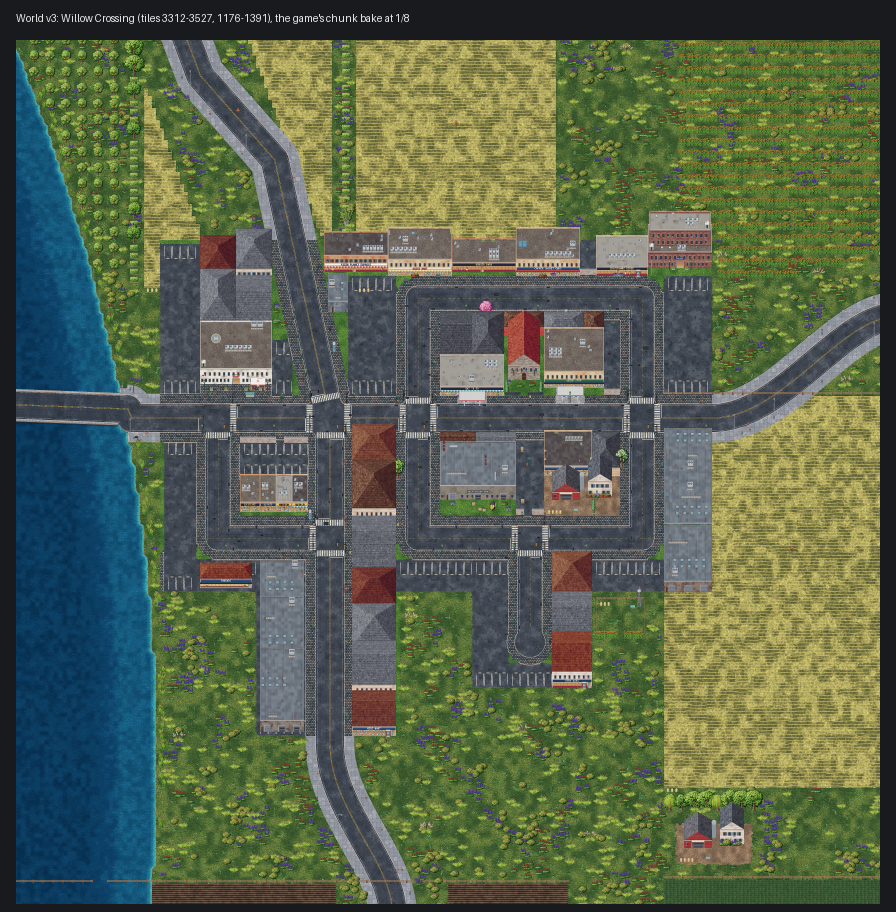
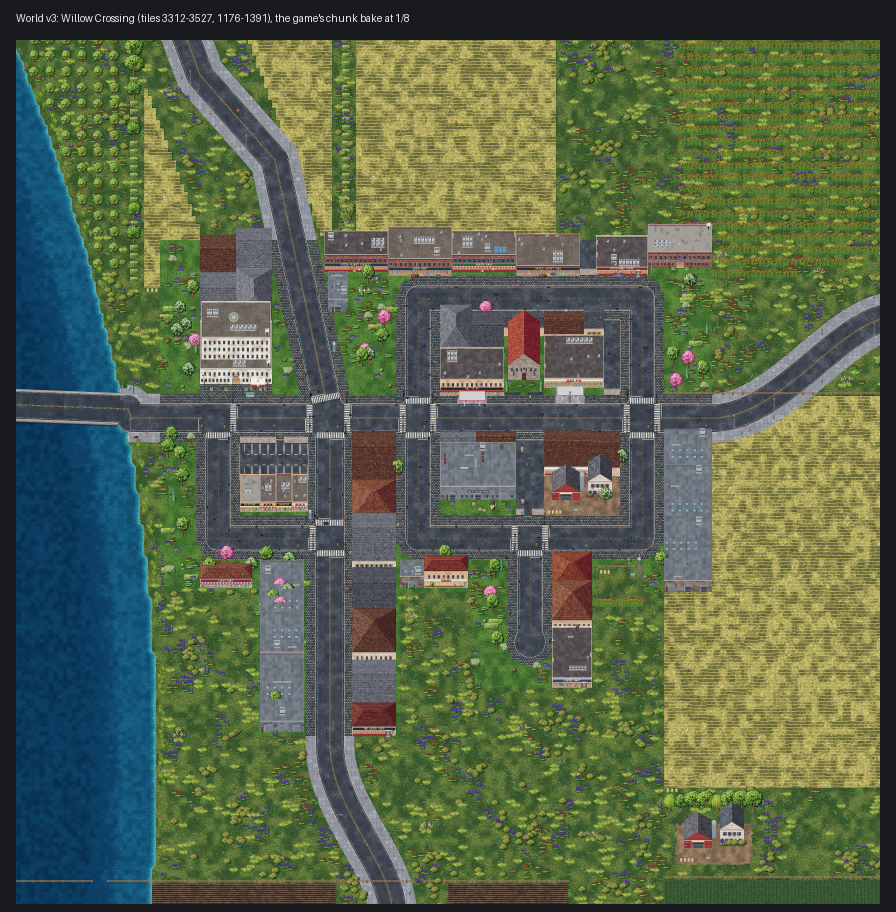
World v3: the country towns' gardens instead of striped car parks (the park filler), pitched roofs on every town section up to 16 tiles; the pictures again
Claude-Session: https://claude.ai/code/session_015TdwbASoLBxZr1VoEZGToX

diff --git a/shared/world3-towns.js b/shared/world3-towns.js
@@ -83,11 +83,12 @@ export const TOWN_SPECIALS = [
 
 // The towns' own building styles (the generator's STYLE form, handed in as opts.styles by district, so only the v3
 // build uses them - 8.13.1): small-town houses, workshops and diners instead of the city's brick shops, apartment
-// blocks and car parks; few plain roofs, yards and gardens between. Northshore's beach towns (54, 8.14) take the beach
-// town's, sparser still: bigger lots, gardens for the gaps, low roofs - "less dense" (the owner, 12:50).
+// blocks and car parks; few plain roofs, gardens between (the `park` filler: the `yard` one lays striped car parks).
+// Northshore's beach towns (54, 8.14) take the beach town's, sparser still: bigger lots, gardens for the gaps, low roofs
+// - "less dense" (the owner, 12:50).
 export const TOWN_STYLES = {
-  57: { minW: 12, minH: 12, gen: { house3: 3, house7: 3, house1: 1.5, diner: 0.6, repair: 0.9, quickstop: 0.7, conv: 0.5, liquor: 0.4, rest1: 0.5 }, filler: 'yard', roof: 0.1, roofKinds: ['metal', 'tar'] },
-  58: { minW: 12, minH: 12, gen: { house1: 2, house3: 2, house8: 1.2, house7: 1, conv: 0.8, repair: 1, quickstop: 1, diner: 0.6, rest1: 0.6 }, filler: 'yard', roof: 0.12, roofKinds: ['metal', 'tile'] },
+  57: { minW: 12, minH: 12, gen: { house3: 3, house7: 3, house1: 1.5, diner: 0.6, repair: 0.9, quickstop: 0.7, conv: 0.5, liquor: 0.4, rest1: 0.5 }, filler: 'park', roof: 0.1, roofKinds: ['metal', 'tar'] },
+  58: { minW: 12, minH: 12, gen: { house1: 2, house3: 2, house8: 1.2, house7: 1, conv: 0.8, repair: 1, quickstop: 1, diner: 0.6, rest1: 0.6 }, filler: 'park', roof: 0.12, roofKinds: ['metal', 'tile'] },
   59: { minW: 14, minH: 14, gen: { house1: 2, house2: 2, house5: 1, house9: 1.5, beachbar: 1, rest2: 1.2, diner: 0.5, conv: 0.4 }, filler: 'park', roof: 0.05, roofKinds: ['tile'] },
   54: { minW: 16, minH: 16, gen: { house1: 3, house2: 3, house5: 1.5, house9: 2, rest2: 0.7, beachbar: 0.7, conv: 0.3, diner: 0.3 }, filler: 'park', roof: 0.04, roofKinds: ['tile'] },
 };

diff --git a/client/art2/game/statics.js b/client/art2/game/statics.js
@@ -1022,7 +1022,7 @@ function specOf(c, b, A, s, D) {
   const TL = TOWN_LOOK[TOWN_OF[D.id]];
   if (TL && TOWN_ARCH.has(A) && !s.frame && !s.vox && !b.art) {
     Object.assign(spec, { style: 'siding', wallColor: pick(TL.walls, rnd()), floors: Math.min(Math.max(1, spec.floors || 1), rnd() < TL.two ? 2 : 1), balconies: false, ivy: 0, graffiti: 0, grime: 0.12, fireEscape: false, boarded: 0 });
-    if (!pitched && s.tw <= 14 && s.th <= 14 && (!spec.shop || rnd() < 0.4)) { Object.assign(spec, { pitch: rnd() < TL.hip ? 'hip' : 'gable', roof: 'shingle', roofColor: pick(TL.roofs, rnd()), slope: 0.42 }); pitched = true; }
+    if (!pitched && s.tw <= 16 && s.th <= 16 && (!spec.shop || rnd() < 0.4)) { Object.assign(spec, { pitch: rnd() < TL.hip ? 'hip' : 'gable', roof: 'shingle', roofColor: pick(TL.roofs, rnd()), slope: 0.42 }); pitched = true; }
     else if (!pitched) spec.parapet = 10;   // (the false front)
   } else if (TL && (A === 'hotel' || A === 'hospital' || A === 'police' || A === 'civicblock' || A === 'office')) spec.floors = Math.min(spec.floors || 2, 2);   // (the motel, the clinic, the sheriff: two storeys at most)
   if (s.bay) {   // the bay's back wall: an open roller door into the lit booth, a sign over it

diff --git a/docs/WORLD-V3.md b/docs/WORLD-V3.md
@@ -2996,14 +2996,15 @@ changes: the world hash stays `6b6e16fdef9f`; the art hash changes (the towns' w
 **The buildings** (`TOWN_STYLES`, the generator's `STYLE` form by district, handed in as `opts.styles` - map.js reads
 `OPTS.styles[d]` before `STYLE[style]` in three places: the block split, `fillRow`, `fillRowV2`; only the v3 build
 passes it): no brick shop rows, apartment blocks or car parks - Timber Bend (57) houses, cabins and workshops (house3,
-house7, repair, the quick stop, a liquor store, a diner), yards between, metal and tar roofs; Willow Crossing (58)
+house7, repair, the quick stop, a liquor store, a diner), metal and tar roofs; Willow Crossing (58)
 farmhouses and the store, the repair shop, the diner, metal and tile roofs; Sandpiper Bay (59) beach houses, cafes and
-the beach bar with gardens between (`park` filler, not the plaza's paving), tile roofs; few plain roofs anywhere.
+the beach bar, tile roofs; gardens between in all three (the `park` filler: the `yard` one lays striped car parks, the
+beach style's `plaza` brown paving); few plain roofs anywhere.
 **The art:** art v2 (`client/art2/game/statics.js`, `TOWN_LOOK` by district) draws a town's houses, shop rows and
 blocks in wood siding - the logging town's dark timber, the farm town's white and cream clapboard (a red barn board
-now and then), the beach towns' pastel boards - one or two storeys, a small one under a shingled gable or hip roof, a
-wider shopfront flat-roofed behind a false front (its parapet); the motel, the clinic and the sheriff two storeys at
-most. The classic renderer (`client/render/buildings.js`) paints the towns' facades in the same woods (`TOWN_WALLS`).
+now and then), the beach towns' pastel boards - one or two storeys under a shingled gable or hip roof (a section up to
+16 tiles: the generator's buildings are cut into sections no bigger), a shopfront six times in ten flat-roofed behind a
+false front (its parapet); the motel, the clinic and the sheriff two storeys at most. The classic renderer (`client/render/buildings.js`) paints the towns' facades in the same woods (`TOWN_WALLS`).
 
 **Northshore's beach towns less dense** (district 54, 8.14): the beach town's style, sparser still (`TOWN_STYLES[54]`:
 lots 16 tiles at least, houses three to one over cafes and bars, gardens for the gaps, almost no plain roofs).
@@ -3016,8 +3017,8 @@ diners, 9 beach bars, 10 corner stores, a small tower - covering 15.2% of the di
 
 | town | its ground | main street | side streets (dead ends) | buildings | fronting the main street | road / buildings (tiles) |
 |---|---|---|---|---|---|---|
-| Timber Bend | 10,422 tiles | Timber Road, row 1071 | 4 (1: Logger Lane) | 32 | 11 | 2,841 / 4,641 |
-| Willow Crossing | 14,160 tiles | the Mine Road, row 1270 | 4 (1: Orchard Lane) | 30 | 10 | 3,832 / 4,703 |
+| Timber Bend | 10,422 tiles | Timber Road, row 1071 | 4 (1: Logger Lane) | 29 | 8 | 2,841 / 3,905 |
+| Willow Crossing | 14,160 tiles | the Mine Road, row 1270 | 4 (1: Orchard Lane) | 32 | 10 | 3,832 / 4,771 |
 | Sandpiper Bay | 19,912 tiles | Sandpiper Drive, row 2574 | 4 (1: Dune Street) | 45 | 20 | 3,815 / 4,177 |
 
 Sandpiper Bay's front: 480 tiles of boardwalk, 222 of pier. 8.13's grid had 7-10 lines of street and 8-12 dead ends a

diff --git a/docs/DEVLOG.md b/docs/DEVLOG.md
@@ -7574,9 +7574,9 @@ towns "less dense".
   no brick shop rows, apartment blocks or car parks; Northshore's beach towns (54) sparser: bigger lots, gardens, low
   roofs - 307 buildings covering 15.2% (358, 16.7% before; Metro City 19.8%).
 - **The looks:** art v2 draws a town's houses and shop rows in wood siding - Timber Bend's dark timber, Willow
-  Crossing's white and cream clapboard, the beach towns' pastel boards - one or two storeys, shingled pitched roofs on
-  the small ones, false fronts on the wider shopfronts, the motel, clinic and sheriff two storeys at most; the classic
-  renderer paints their facades in the same woods.
+  Crossing's white and cream clapboard, the beach towns' pastel boards - one or two storeys, shingled pitched roofs,
+  false fronts on most shopfronts, the motel, clinic and sheriff two storeys at most; gardens between (no striped car
+  parks); the classic renderer paints their facades in the same woods.
 - Not done: the towns' own prefabs (the wooden shopfronts with porches, the sawmill and log yard, the lodge, the white
   church, the grain elevator and silos, the feed store, the co-op's loading dock, the surf shop, cottages, beach houses
   on stilts) - docs/WORLD-V3.md 8.13.1's "what's left". Nothing live changes: the world hash stays 6b6e16fdef9f; the
